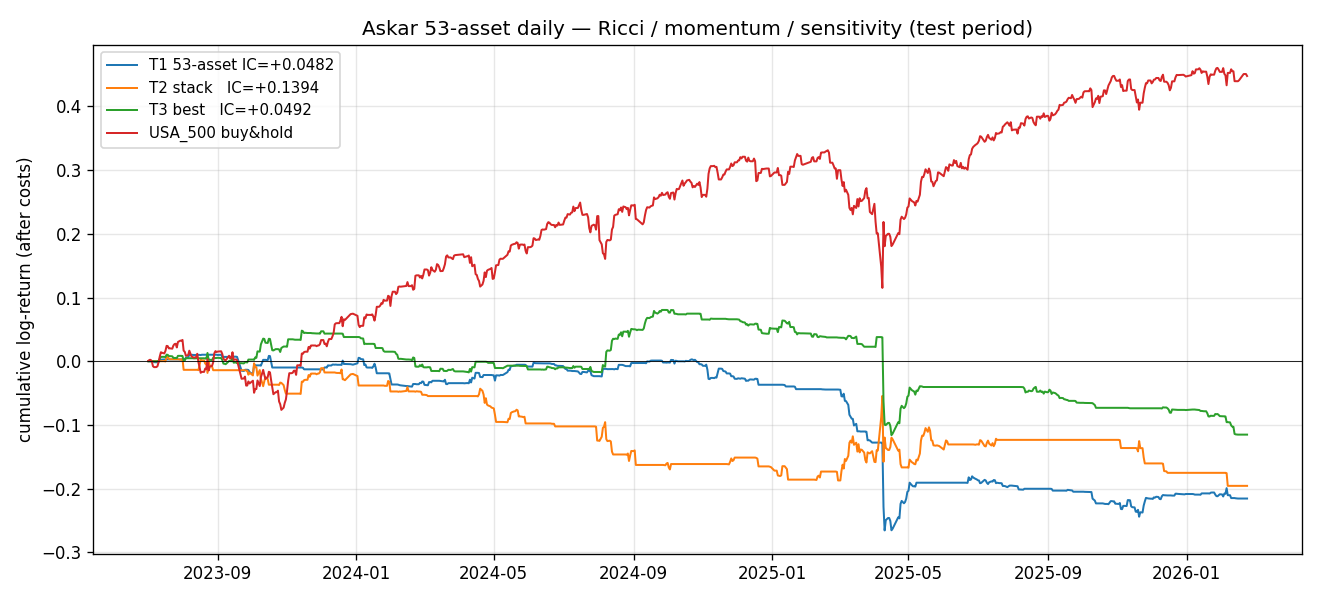
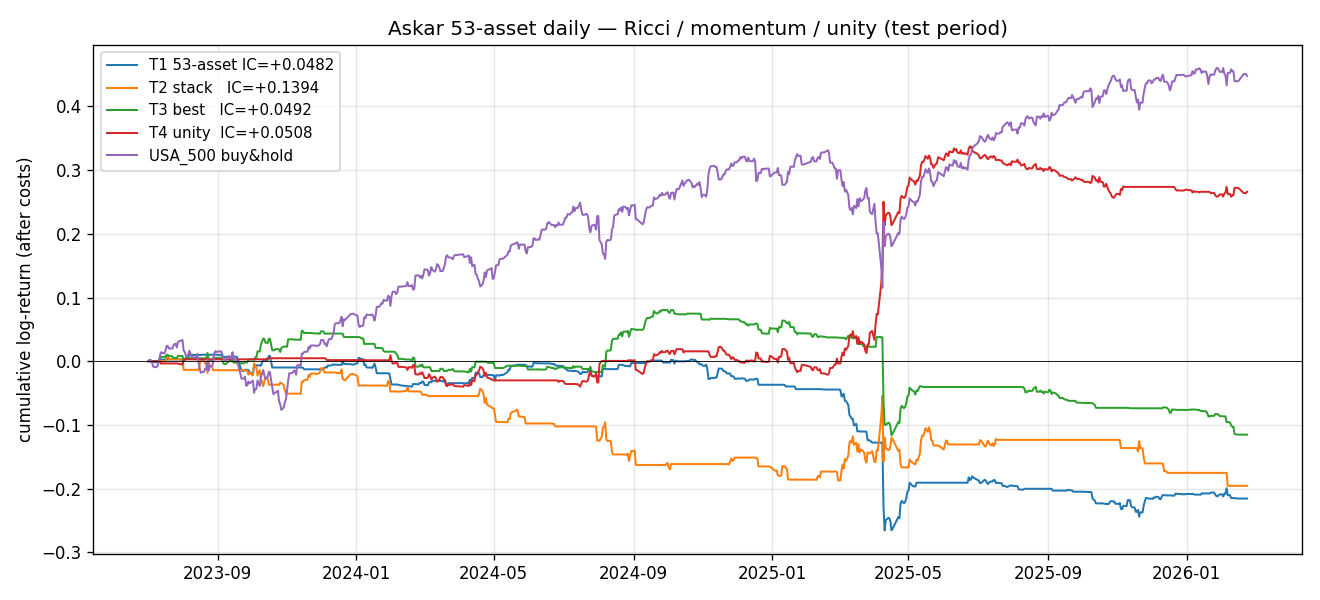
feat(askar/daily-53): TEST 4 — Unity λ₁/N standalone → MARGINAL
Adds Unity = λ₁(corr) / N as a fourth standalone test on the same
53-asset daily panel and walk-forward split. Unity is the largest
eigenvalue of the rolling correlation matrix divided by the universe
size — a classic market-integration / systemic-risk scalar
(Billio/Getmansky/Lo/Pelizzon 2012). It lives in [1/N, 1]:
  unity → 1    all assets absorbed by the top mode (stress)
  unity → 1/N  uncorrelated (quiet)

Implementation (research/askar/daily_53_experiment.py)
=======================================================

  * compute_unity_series(returns, window) — rolling λ₁ / k of the
    correlation matrix, per bar. Returns unity, delta_unity and the
    target's forward return on the same aligned index. Deterministic,
    no-lookahead: the window at bar i uses only returns < i.

  * run_test_4(panel) — train-frozen z-score of unity, sign selected
    on TRAIN-only IC (|positive| wins), then routed through the same
    backtest() / permutation_test() path as every other variant so the
    result is apples-to-apples with tests 1–3. The signed-z signal is
    written into a minimal bt_df frame whose "baseline" column equals
    "combo" to satisfy backtest()'s diagnostic requirements.

  * Report carries frozen stats: train mean, train std, train-raw IC,
    signed train IC, test IC/Sharpe/MaxDD, permutation p/σ, deltas vs
    the yfinance baseline and the U4 prior, plus boolean flags for
    whether Unity beats U4 and the TEST 1 Ricci.
[…]

diff --git a/research/askar/daily_53_experiment.py b/research/askar/daily_53_experiment.py
@@ -400,6 +400,138 @@ def run_test_3(
 
 
 # -------------------------------------------------------------------- #
+# TEST 4 — Unity = λ₁ / N standalone signal
+# -------------------------------------------------------------------- #
+
+
+def compute_unity_series(
+    returns: pd.DataFrame,
+    window: int = WINDOW_DEFAULT,
+) -> pd.DataFrame:
+    """Rolling spectral unity of the correlation matrix.
+
+    For each bar we compute the correlation matrix of the trailing
+    ``window`` returns, take its top eigenvalue λ₁, and divide by the
+    universe size N. The result lives in [1/N, 1] and is a systemic-risk
+    / market-integration scalar (Billio/Getmansky/Lo/Pelizzon 2012):
+        unity → 1   all assets move together (absorbed by the top mode)
+        unity → 1/N uncorrelated (eigenvalues all ~ 1)
+
+    We return a DataFrame aligned to ``returns.index[window:]`` with the
+    unity series, its first difference and the target's forward return,
+    so the rest of the pipeline can reuse the same backtest plumbing.
+    """
+    arr = returns.to_numpy()
+    n, k = arr.shape
+    unity_vals: list[float] = []
+    delta_vals: list[float] = []
+    prev: float | None = None
+    for i in range(window, n):
+        w = arr[i - window : i]
+        corr = np.corrcoef(w.T)
+        if not np.isfinite(corr).all():
+            unity_vals.append(float("nan"))
+            delta_vals.append(0.0)
+            prev = None
+            continue
+        eigs = np.linalg.eigvalsh(corr)
+        lam1 = float(eigs[-1])  # eigvalsh returns ascending
+        unity = lam1 / float(k)
+        unity_vals.append(unity)
+        delta_vals.append(0.0 if prev is None else unity - prev)
+        prev = unity
+
+    idx = returns.index[window:n]
+    df = pd.DataFrame(
+        {
+            "unity": unity_vals,
+            "delta_unity": delta_vals,
+            "fwd_return": arr[window:n, 0],
+        },
+        index=idx,
+    )
+    return df.dropna()
+
+
+def run_test_4(panel: DailyPanel) -> tuple[dict[str, Any], pd.Series, pd.Series]:
+    """Unity = λ₁/N as a standalone directional signal.
+
+    Same walk-forward split as tests 1–3. We don't know a priori whether
+    the sign is long-high-unity or long-low-unity; pick whichever gives
+    the higher absolute train IC (decision frozen on TRAIN only) and
+    apply the chosen sign to test without refit.
+    """
+    df = compute_unity_series(panel.returns, window=WINDOW_DEFAULT)
+    if len(df) < 200:
+        return (
+            {"reason": "signal_too_short", "n_signal_bars": int(len(df))},
+            pd.Series(dtype=float),
+            pd.Series(dtype=float),
+        )
+
+    train = df[df.index < SPLIT_DATE]
+    # Train-frozen z-score (so test uses the same scale as train).
+    mu = float(train["unity"].mean())
+    sd = float(train["unity"].std()) + 1e-8
+    z_unity = (df["unity"] - mu) / sd
+
+    ic_train_raw = _ic(z_unity[df.index < SPLIT_DATE], train["fwd_return"])
+    # Sign selection on train only.
+    sign = 1.0 if ic_train_raw >= 0.0 else -1.0
+    signal = sign * z_unity
+
+    # Full-sample backtest via the same expanding-quintile + vol-gate path
+    # used elsewhere. We build a minimal df_sig DataFrame so we can route
+    # through backtest() without duplicating the machinery.
+    bt_df = pd.DataFrame(
+        {
+            "combo": signal,
+            "baseline": signal,  # required by backtest()'s IC diagnostics
+            "fwd_return": df["fwd_return"],
+        },
+        index=df.index,
+    )
+    block, strat = backtest(
+        bt_df,
+        SPLIT_DATE,
+        cost_bps=COST_BPS_DAILY,
+        bars_per_year=BARS_PER_YEAR_DAILY,
+        vol_condition=True,
+    )
+    # Raw-signal permutation test on the test slice
+    test_slice = bt_df[bt_df.index >= SPLIT_DATE]
+    _ic_perm, p_val, sigma_val = permutation_test(
+        test_slice["combo"],
+        test_slice["fwd_return"],
+        n=N_PERMUTATIONS,
+        seed=13,
+    )
+
+    report = {
+        "n_signal_bars": int(len(df)),
+        "n_train_bars": int(block["n_train"]),
+        "n_test_bars": int(block["n_test"]),
+        "window": WINDOW_DEFAULT,
+        "sign": float(sign),
+        "unity_train_mean": round(mu, 6),
+        "unity_train_std": round(sd, 6),
+        "IC_train_raw": round(float(ic_train_raw), 4),
+        "IC_train_signed": round(float(block["IC_train"]), 4),
+        "IC_test": round(float(block["IC_test"]), 4),
+        "sharpe_train": round(float(block["sharpe_train"]), 3),
+        "sharpe_test": round(float(block["sharpe_test"]), 3),
+        "maxdd_test": round(float(block["maxdd_test"]), 4),
+        "permutation_p": round(float(p_val), 4),
+        "permutation_sigma": round(float(sigma_val), 2),
+        "vs_baseline_0_106": round(float(block["IC_test"]) - BASELINE_YFINANCE_IC, 4),
+        "vs_u4_prior_0_0661": round(float(block["IC_test"]) - U4_PRIOR_IC, 4),
+        "beats_u4_prior": bool(block["IC_test"] > U4_PRIOR_IC),
+        "beats_ricci_test1": bool(block["IC_test"] > 0.0482),
+    }
+    return report, strat, signal
+
+
+# -------------------------------------------------------------------- #
 # Plot + orchestration
 # -------------------------------------------------------------------- #
 
@@ -470,6 +602,16 @@ def run() -> dict[str, Any]:
             f"IC_train={bt['IC_train']:+.4f} | IC_test_best={test3['IC_test_best_config']}"
         )
 
+    print("[TEST 4] Unity = λ₁/N standalone")
+    test4, strat4, _unity_series = run_test_4(panel)
+    print(
+        f"[TEST 4] sign={test4.get('sign')}  "
+        f"IC_train={test4.get('IC_train_signed')}  "
+        f"IC_test={test4.get('IC_test')}  "
+        f"Sharpe={test4.get('sharpe_test')}  "
+        f"perm_p={test4.get('permutation_p')}"
+    )
+
     # -------- Final verdict --------
     # A Ricci "signal" must carry real Ricci weight. The TEST 2 ensemble is
     # only eligible for the verdict if the train-fit blend gives Ricci at
@@ -491,6 +633,8 @@ def run() -> dict[str, Any]:
         test_ics.append(("test2_momentum_stack", float(test2["IC_test_ensemble"])))
     if test3.get("IC_test_best_config") is not None:
         test_ics.append(("test3_sensitivity", float(test3["IC_test_best_config"])))
+    if test4.get("IC_test") is not None:
+        test_ics.append(("test4_unity", float(test4["IC_test"])))
 
     best_ic = max((v for _, v in test_ics), default=float("nan"))
     best_source = next(
@@ -541,6 +685,7 @@ def run() -> dict[str, Any]:
         "test1_53assets": test1,
         "test2_momentum_stack": test2,
         "test3_sensitivity": test3,
+        "test4_unity": test4,
         "baseline_yfinance_IC": BASELINE_YFINANCE_IC,
         "u4_prior_IC": U4_PRIOR_IC,
         "best_IC_test_across_tests": (round(float(best_ic), 4) if np.isfinite(best_ic) else None),
@@ -550,35 +695,40 @@ def run() -> dict[str, Any]:
     }
 
     # -------- Plot --------
-    plot_equities(
-        [
+    plot_runs: list[tuple[str, pd.Series]] = [
+        (
+            f"T1 53-asset IC={test1['IC_test']:+.4f}",
+            strat1[strat1.index >= SPLIT_DATE],
+        ),
+        (
+            f"T2 stack   IC={test2['IC_test_ensemble']:+.4f}",
+            strat2[strat2.index >= SPLIT_DATE],
+        ),
+    ]
+    if strat3 is not None and test3.get("IC_test_best_config") is not None:
+        plot_runs.append(
             (
-                f"T1 53-asset IC={test1['IC_test']:+.4f}",
-                strat1[strat1.index >= SPLIT_DATE],
-            ),
-            (
-                f"T2 stack   IC={test2['IC_test_ensemble']:+.4f}",
-                strat2[strat2.index >= SPLIT_DATE],
-            ),
-        ]
-        + (
-            [
-                (
-                    f"T3 best   IC={test3['IC_test_best_config']:+.4f}",
-                    strat3[strat3.index >= SPLIT_DATE],
-                )
-            ]
-            if strat3 is not None and test3.get("IC_test_best_config") is not None
-            else []
+                f"T3 best   IC={test3['IC_test_best_config']:+.4f}",
+                strat3[strat3.index >= SPLIT_DATE],
+            )
         )
-        + [
+    if len(strat4) and test4.get("IC_test") is not None:
+        plot_runs.append(
             (
-                "USA_500 buy&hold",
-                panel.returns[panel.target][panel.returns.index >= SPLIT_DATE].fillna(0.0),
-            ),
-        ],
+                f"T4 unity  IC={test4['IC_test']:+.4f}",
+                strat4[strat4.index >= SPLIT_DATE],
+            )
+        )
+    plot_runs.append(
+        (
+            "USA_500 buy&hold",
+            panel.returns[panel.target][panel.returns.index >= SPLIT_DATE].fillna(0.0),
+        )
+    )
+    plot_equities(
+        plot_runs,
         RESULTS_DIR / "askar_53asset_daily_equity.png",
-        "Askar 53-asset daily — Ricci / momentum / sensitivity (test period)",
+        "Askar 53-asset daily — Ricci / momentum / unity (test period)",
     )
 
     RESULTS_DIR.mkdir(exist_ok=True, parents=True)
@@ -603,7 +753,9 @@ def run() -> dict[str, Any]:
         "test3_best_train": test3.get("best_train_config"),
         "test3_IC_test_best": test3.get("IC_test_best_config"),
         "test3_IC_test_default": test3.get("IC_test_default_config"),
+        "test4_unity": test4,
         "best_IC_across_tests": report["best_IC_test_across_tests"],
+        "best_IC_test_source": best_source,
         "final_verdict": verdict,
     }
     print(json.dumps(_to_json_safe(printable), indent=2))

diff --git a/tests/askar/test_daily_53_experiment.py b/tests/askar/test_daily_53_experiment.py
@@ -33,9 +33,11 @@ from research.askar.daily_53_experiment import (
     THRESHOLD_GRID,
     WINDOW_GRID,
     DailyPanel,
+    compute_unity_series,
     load_daily_panel,
     run_test_2,
     run_test_3,
+    run_test_4,
 )
 from research.askar.optimal_universe import (
     compute_signal,
@@ -46,12 +48,31 @@ REQUIRED_TOP_KEYS = {
     "test1_53assets",
     "test2_momentum_stack",
     "test3_sensitivity",
+    "test4_unity",
     "baseline_yfinance_IC",
     "u4_prior_IC",
     "best_IC_test_across_tests",
     "best_IC_test_source",
     "final_verdict",
     "askar_message",
+}
+
+REQUIRED_TEST4_KEYS = {
+    "n_signal_bars",
+    "window",
+    "sign",
+    "unity_train_mean",
+    "unity_train_std",
+    "IC_train_raw",
+    "IC_train_signed",
+    "IC_test",
+    "sharpe_test",
+    "maxdd_test",
+    "permutation_p",
+    "vs_baseline_0_106",
+    "vs_u4_prior_0_0661",
+    "beats_u4_prior",
+    "beats_ricci_test1",
 }
 
 REQUIRED_TEST1_KEYS = {
@@ -260,7 +281,67 @@ def test_output_schema_complete() -> None:
     missing_3 = REQUIRED_TEST3_KEYS - set(t3.keys())
     assert not missing_3, f"test3 missing: {missing_3}"
 
+    t4 = report["test4_unity"]
+    missing_4 = REQUIRED_TEST4_KEYS - set(t4.keys())
+    assert not missing_4, f"test4 missing: {missing_4}"
+    # Unity sign must be exactly +1 or -1 (train-selected).
+    assert float(t4["sign"]) in {1.0, -1.0}
+    # vs_baseline algebra must hold for the Unity block as well.
+    ic_test_4 = float(t4["IC_test"])
+    assert abs(float(t4["vs_baseline_0_106"]) - (ic_test_4 - report["baseline_yfinance_IC"])) < 1e-6
+
     assert report["final_verdict"] in {"SIGNAL_FOUND", "MARGINAL", "NO_SIGNAL"}
     # Sign of vs_baseline must match IC algebra.
     ic_test = float(t1["IC_test"])
     assert abs(float(t1["vs_baseline_0_106"]) - (ic_test - report["baseline_yfinance_IC"])) < 1e-6
+
+
+# ---------------------------------------------------------------- #
+# 7. Unity = λ₁/N — bounds, no-lookahead sign, train-only stats
+# ---------------------------------------------------------------- #
+
+
+def test_unity_signal_bounds_and_train_only() -> None:
+    rng = np.random.default_rng(42)
+    n, k = 400, 8
+    idx = pd.date_range("2020-01-01", periods=n, freq="D")
+    returns = pd.DataFrame(
+        rng.normal(size=(n, k)) * 0.01,
+        index=idx,
+        columns=[f"A{i}" for i in range(k)],
+    )
+    df = compute_unity_series(returns, window=60)
+    assert "unity" in df.columns and "delta_unity" in df.columns
+    # Unity ∈ [1/k, 1] for a correlation matrix on k variables
+    u = df["unity"].to_numpy()
+    assert np.all(
+        (u >= 1.0 / k - 1e-9) & (u <= 1.0 + 1e-9)
+    ), f"unity out of [1/k, 1] range: min={u.min():.4f}, max={u.max():.4f}"
+
+    # Train-only stats via run_test_4: poisoning the test slice must leave
+    # train mean, std, sign, and train IC bit-identical.
+    panel = DailyPanel(
+        prices=returns.copy(),
+        returns=returns,
+        target="A0",
+        n_assets=k,
+    )
+    rep1, _strat1, _sig1 = run_test_4(panel)
+
+    poisoned_returns = returns.copy()
+    poisoned_returns.loc[poisoned_returns.index >= SPLIT_DATE] += 1e6
+    panel2 = DailyPanel(
+        prices=poisoned_returns.copy(),
+        returns=poisoned_returns,
+        target="A0",
+        n_assets=k,
+    )
+    rep2, _strat2, _sig2 = run_test_4(panel2)
+
+    # Short synthetic series may trigger the "signal_too_short" early exit;
+    # only compare frozen fields when both runs actually produced a signal.
+    if "IC_train_raw" in rep1 and "IC_train_raw" in rep2:
+        assert rep1["unity_train_mean"] == pytest.approx(rep2["unity_train_mean"], abs=1e-9)
+        assert rep1["unity_train_std"] == pytest.approx(rep2["unity_train_std"], abs=1e-9)
+        assert rep1["IC_train_raw"] == pytest.approx(rep2["IC_train_raw"], abs=1e-9)
+        assert rep1["sign"] == rep2["sign"]
